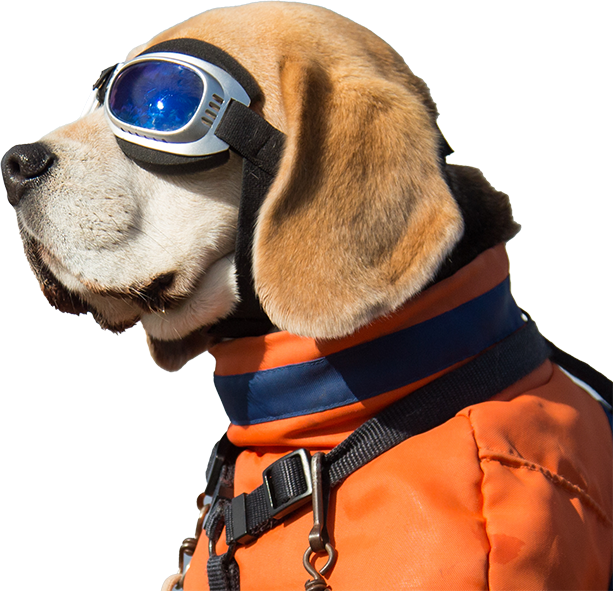
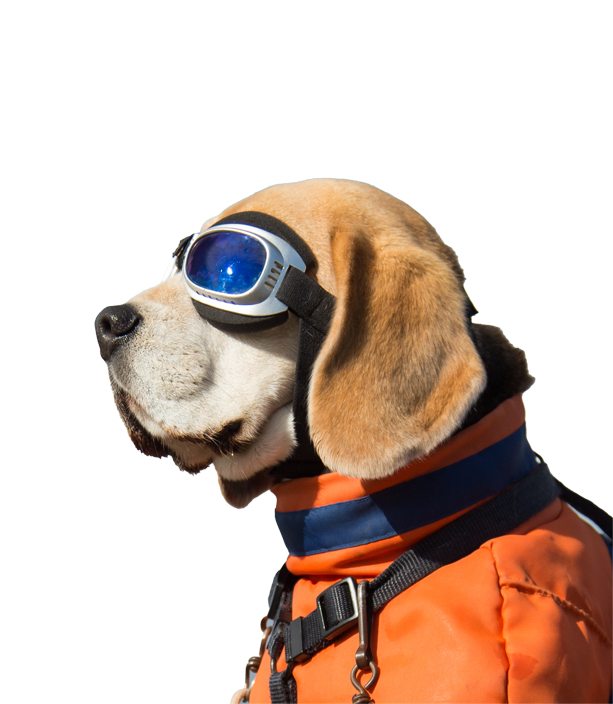
test

diff --git a/index.html b/index.html
@@ -149,7 +149,7 @@
 			<div role="main" class="main">
 
 				<section class="section section-height-3 section-with-shape-divider position-relative border-0 m-0" data-plugin-parallax data-plugin-options="{'speed': 1.5, 'parallaxHeight': '120%'}" data-image-src="img/demos/business-consulting-3/backgrounds/clouds.jpg">
-					<img src="img/demos/business-consulting-3/backgrounds/beagle61.png" class="img-fluid position-absolute top-20 right-10 d-none d-md-block appear-animation" data-appear-animation="fadeInUpShorter" data-appear-animation-delay="1100" alt="" />
+					<img src="img/demos/business-consulting-3/backgrounds/beagle613.png" class="img-fluid position-absolute top-20 right-10 d-none d-md-block appear-animation" data-appear-animation="fadeInUpShorter" data-appear-animation-delay="1100" alt="" />
 					<div class="container pb-5 pb-xl-0 mt-md-3 mb-5">
 						<div class="row">
 							<div class="col-md-7 col-lg-12">
